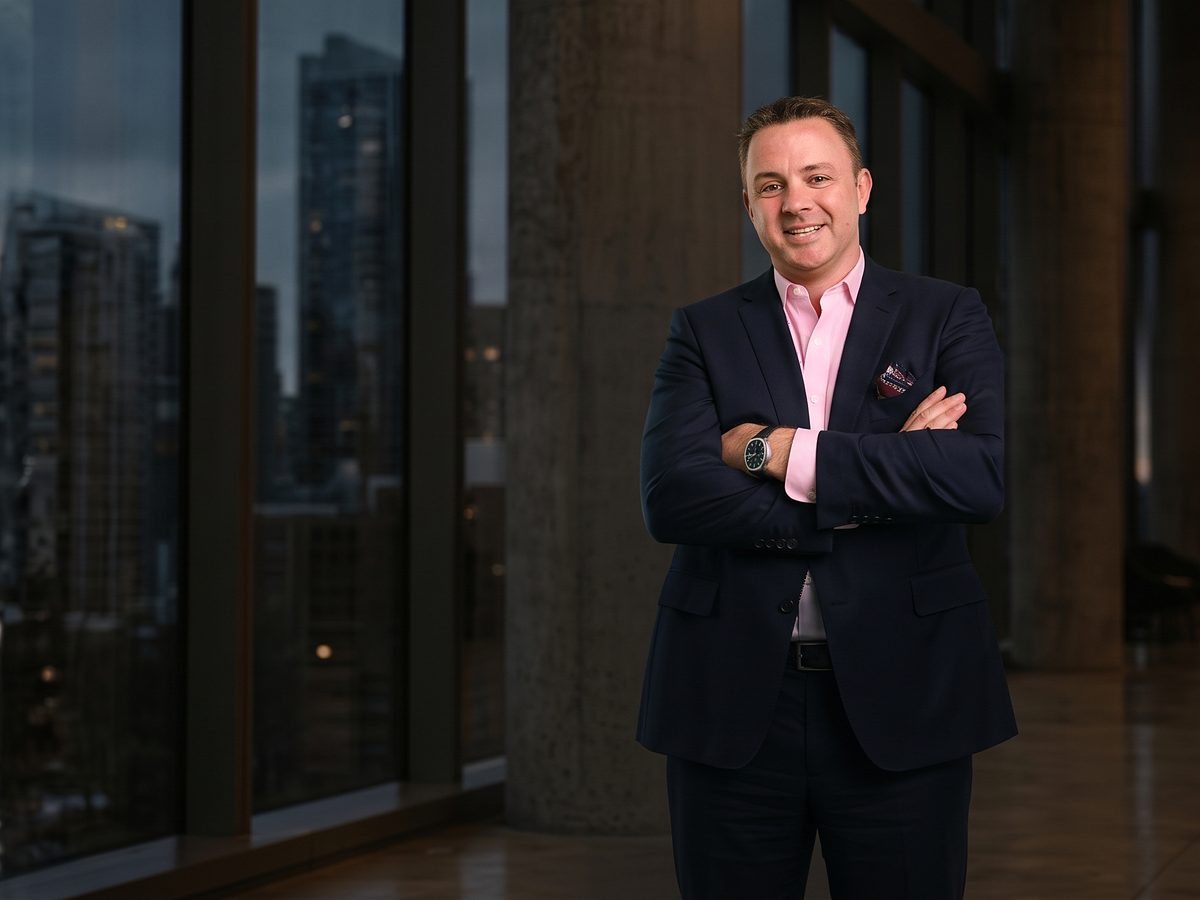
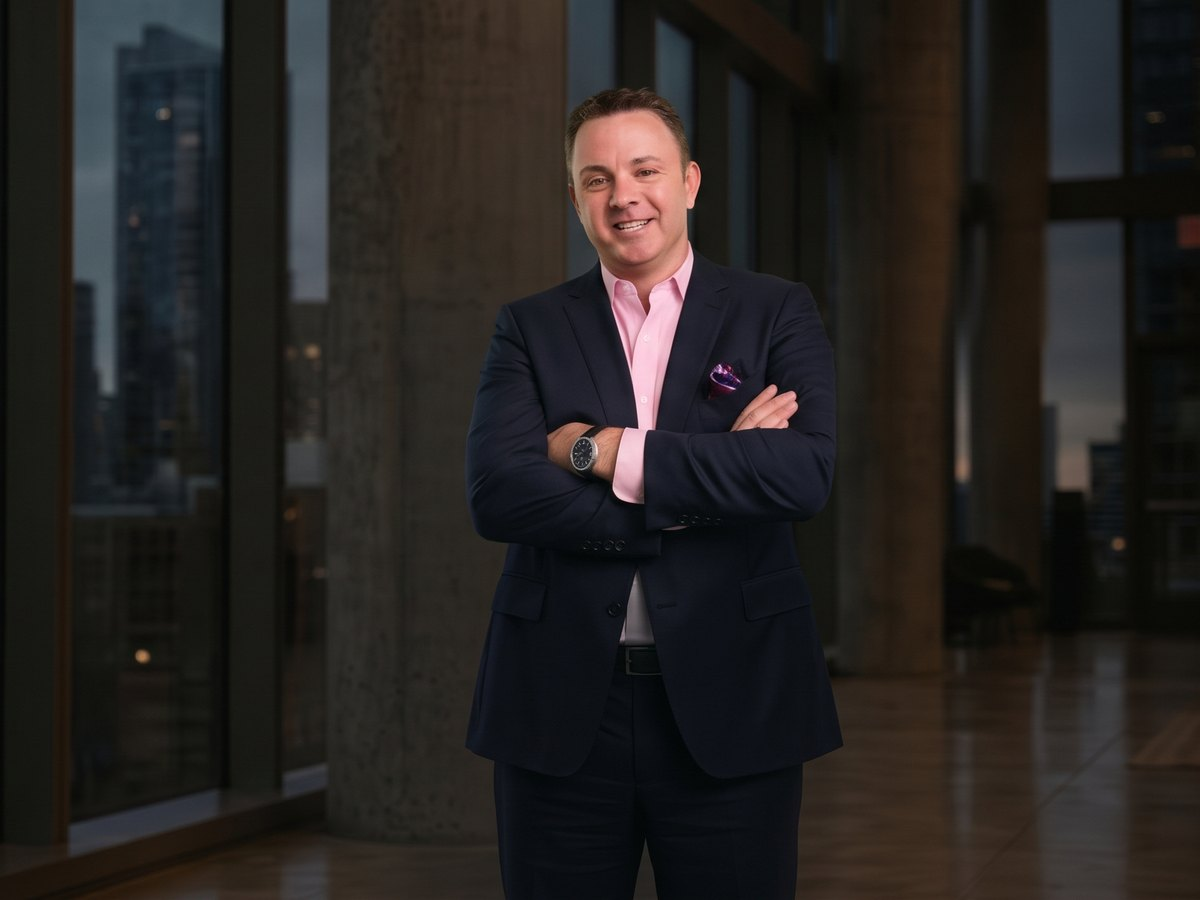
Hero: new photo from Jack (Oct 15), desktop frame and phone crop regenerated
Claude-Session: https://claude.ai/code/session_01HYAkw9pCyab5HBWHNXYwh1

diff --git a/src/styles/global.css b/src/styles/global.css
@@ -124,7 +124,7 @@ ul.checks li:before{content:"";position:absolute;left:0;top:.55em;width:.7rem;he
 .footer button{padding:.75rem 1.1rem}
 /* hero with photo */
 .hero{position:relative;background:var(--ink);min-height:min(82vh,45rem);display:flex;align-items:center;overflow:hidden}
-@media (min-aspect-ratio:21/9){.hero .bg{object-position:var(--pos-wide,58% 10%)}}
+@media (min-aspect-ratio:21/9){.hero .bg{object-position:var(--pos-wide,68% 12%)}}
 .hero .bg{position:absolute;inset:0;width:100%;height:100%;object-fit:cover;object-position:var(--pos,60% 50%)}
 .hero:after{content:"";position:absolute;inset:0;background:linear-gradient(90deg,rgba(42,26,14,.86) 0%,rgba(42,26,14,.66) 36%,rgba(42,26,14,.1) 64%,rgba(42,26,14,0) 80%)}
 .hero .wrap{position:relative;z-index:1;width:100%;padding-top:3rem;padding-bottom:3rem}
